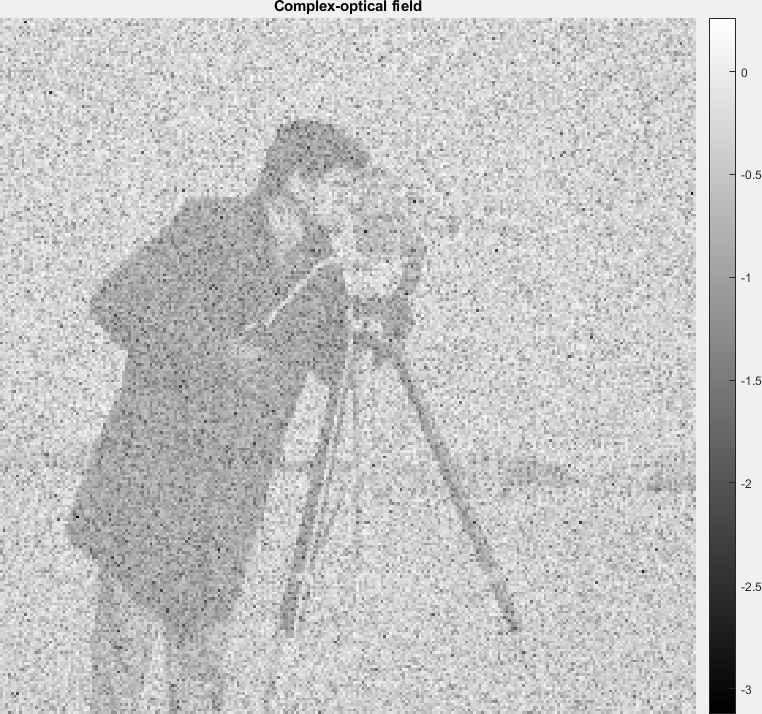
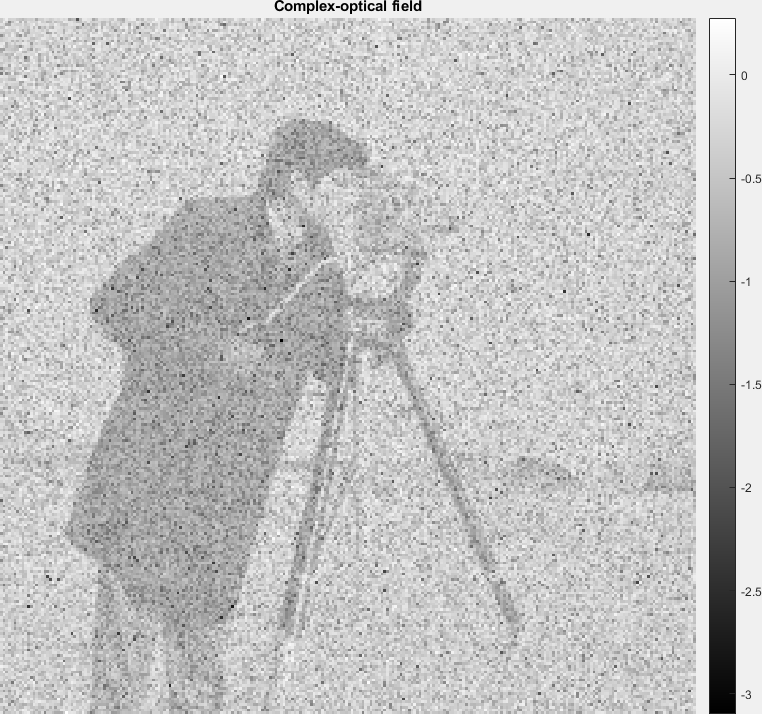
MainRunningCode

diff --git a/MainRunningCode.m b/MainRunningCode.m
@@ -8,7 +8,7 @@ r            = im2double((imread('cameraman.tif')));
 sigma_w      = 0.1;
 A            = 'fft';
 seedNum      = 1;
-denoiserType = 'BM3D';
+denoiserType = 'TV';
 realOnly     = true;
 figure, imshow(abs(r),[]), colorbar
 title('Object-Reflectance')
@@ -35,9 +35,9 @@ maxIters     = 25;
 v0           = abs(ifft2(y)).^2; 
 u0           = zeros(size(v0));
 sigmaLambda  = 0.5*sqrt(var(v0(:))); 
-sigman       = 0.01; 
+sigman       = 2; 
 G            = denoiser(denoiserType,realOnly,sigman);
-logLikelihood= zeros(maxIters,1);
+costFunction= zeros(maxIters,1);
 
 vPrev        = v0;
 uPrev        = u0; 
@@ -49,7 +49,9 @@ for iters = 1:maxIters
     figure(2),
     subplot(2,2,1), imshow(abs(rtildenext),[]), colorbar
     title('Input: Inversion-Op')
-    rNext      = inversionOperator(rtildenext,sigmaLambda,c,mu); 
+    costFunctionPrior = computeCostFunction(c,mu,rPrev,sigmaLambda,rtildenext);
+    rNext             = inversionOperator(rtildenext,sigmaLambda,c,mu); 
+    costFunctionPost(iters)  = computeCostFunction(c,mu,rNext,sigmaLambda,rtildenext);
     subplot(2,2,2), imshow(abs(rtildenext),[]), colorbar
     title('Output: Inversion-Op')
     vtildenext = rNext+uPrev;
@@ -63,8 +65,6 @@ for iters = 1:maxIters
     vPrev                       = vNext;
     uPrev                       = uNext;
     rPrev                       = rNext;
-    logLikelihood(iters)        = computeLoglikelihoodFunction(c,mu,rNext);
 end
-figure(3), plot(logLikelihood)
-title('Iterations')
 %%
+figure, plot(costFunctionPost)

diff --git a/inversionOperator.m b/inversionOperator.m
@@ -1,4 +1,6 @@
 function [rnext] = inversionOperator(rtilde,sigmaLambda,c,mu)
+[M,N] = size(rtilde);
+rtilde= rtilde(:);
 rnext = zeros(size(rtilde));
 for index = 1:size(c,1)*size(c,2)
 alpha1             = 1/sigmaLambda^2;
@@ -6,6 +8,11 @@ alpha2             = -rtilde(index)/sigmaLambda^2;
 alpha3             = 1;
 alpha4             = -(c(index)+mu(index));
 rootsEquation      = roots([alpha1 alpha2 alpha3 alpha4]);
-rootsEquation      = min(abs(rootsEquation));
+for ind = 1:length(rootsEquation)
+rootsCost(ind)     = computeCostFunction(c(index),mu(index),rootsEquation(ind),sigmaLambda,rtilde(index));
+end
+[~,minPos]         = min(rootsCost);
+rootsEquation      = min(abs(rootsEquation(minPos)));
 rnext(index)       = abs(rootsEquation);
 end
+rnext = reshape(rnext,M,N);

diff --git a/computeCostFunction.m b/computeCostFunction.m
@@ -1,0 +1,4 @@
+function  costFunction = computeCostFunction(c,mu,r,sigmaLambda,rtilde)
+
+epsilon = 1e-5;
+costFunction = sum(log10(r(:)+epsilon))+sum(sum((1./r(:)).*(c(:)+abs(mu(:)).^2)))+(1/(2*sigmaLambda^2))*norm(r-rtilde)^2;
